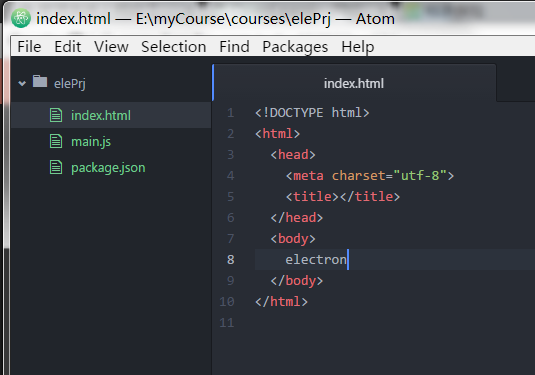
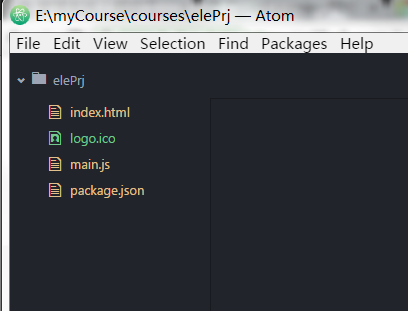
finish how to use electron first

diff --git a/elePrj/main.js b/elePrj/main.js
@@ -1,6 +1,4 @@
-/**
- * Created by TR on 2016/3/16.
- */
+
 var electron = require('electron');
 var app = electron.app;
 var BrowserWindow = require('browser-window');
@@ -18,23 +16,10 @@ var template = [
         label: '关于',
         submenu: [
             {
-                label: '版本',
-                click: function() {
-                    require("./about").show();
-                }
+                label: '版本'
             },
             {
-                label: '项目',
-                accelerator: (function() {
-                    if (process.platform == 'darwin')
-                        return 'Ctrl+Command+F';
-                    else
-                        return 'F11';
-                })(),
-                click: function(item, focusedWindow) {
-                    if (focusedWindow)
-                        focusedWindow.setFullScreen(!focusedWindow.isFullScreen());
-                }
+                label: '项目'
             }
         ]
     }
@@ -49,13 +34,13 @@ app.on('window-all-closed', function () {
 var buildMainWindow = function(){
     var electronScreen = electron.screen;
     var size = electronScreen.getPrimaryDisplay().workAreaSize;
-    BrowserWindow.mainWindow = mainWindow = new BrowserWindow({ 
-        width: 900, 
-        height: 700, 
+    BrowserWindow.mainWindow = mainWindow = new BrowserWindow({
+        width: 900,
+        height: 700,
         useContentSize:true,
-        resizable:false,
-        maximizable:false,
-        fullscreenable:false,
+        resizable:true,
+        maximizable:true,
+        fullscreenable:true,
         titleBarStyle:"hidden",
         backgroundColor: "rgba(0,0,0,0.5)" });
     webContents = mainWindow.webContents;
@@ -71,7 +56,7 @@ var buildMenu = function(){
 }
 
 var buildAppIcon = function(){
-    appIcon = new Tray(nativeImage.createFromPath(__dirname+'/img/logo.ico'));
+    appIcon = new Tray(nativeImage.createFromPath(__dirname+'/logo.ico'));
     appIcon.setToolTip('This is my application.');
     var contextMenu = Menu.buildFromTemplate([
         { label: '退出', click: function(){

diff --git a/elePrj/index.html b/elePrj/index.html
@@ -5,6 +5,6 @@
     <title></title>
   </head>
   <body>
-    electron
+    helloWorld
   </body>
 </html>

diff --git a/electron.md b/electron.md
@@ -23,7 +23,7 @@ npm install electron-prebuilt --save-dev
 
 >全局安装成功测试：cmd中输入electron -v
 
-![categoryStructure](./mdImg/ele-v.jpg)
+![运行测试](./mdImg/ele-v.jpg)
 
 ##构建项目
 
@@ -31,11 +31,53 @@ npm install electron-prebuilt --save-dev
 
 2、创建 `package.json` 加载文件 ;
 
+```package.json
+{
+  "name": "electron",
+  "version": "0.0.1",
+  "description": "helloWorld",
+  "author": "heyunjiang",
+  "main": "main.js"
+}
+```
+
+>注：`main` 指向入口文件 `main.js`
+
 3、创建项目入口文件 `main.js` ;
 
-4、创建 `index` 页面 ;
+>这里不再填充代码，可以使用项目中的 main.js 文件
+
+4、创建 `index.html` 页面 ;
+
+```index.html
+<!DOCTYPE html>
+<html>
+  <head>
+    <meta charset="utf-8">
+    <title></title>
+  </head>
+  <body>
+    helloWorld
+  </body>
+</html>
+
+```
 
 项目目录结构如图
 
 ![categoryStructure](./mdImg/catStr.png)
 
+##运行项目
+
+命令行切换到项目根目录下，运行 `electron .`
+
+![运行](./mdImg/run.png)
+
+运行结果：
+
+![运行结果](./mdImg/result.jpg)
+
+到现在，一个hello world项目就运行成功了；
+关于如何编写 `main.js` ，需要你去看 [eletron](https://github.com/electron/electron/tree/master/docs-translations/zh-CN) 官方文档
+
+后续我会编写如何具体使用 `electron` 
